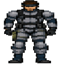
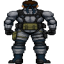
Pistola y municiones

diff --git a/assets/redimensionar.py b/assets/redimensionar.py
@@ -1,7 +1,7 @@
 from PIL import Image
 import os
 
-for carpeta in ["."]:
+for carpeta in ["assets/personajes/Ghost/Apuntar/arriba"]:
     for archivo in os.listdir(carpeta):
         if archivo.endswith(".png"):
             img = Image.open(f"{carpeta}/{archivo}")
